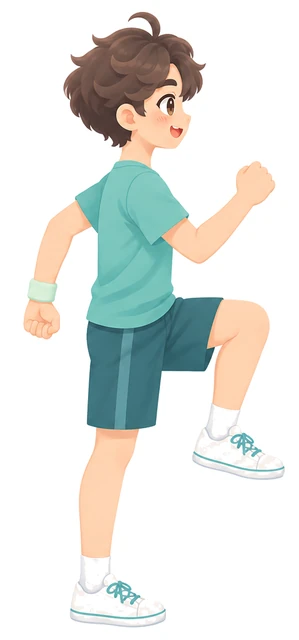
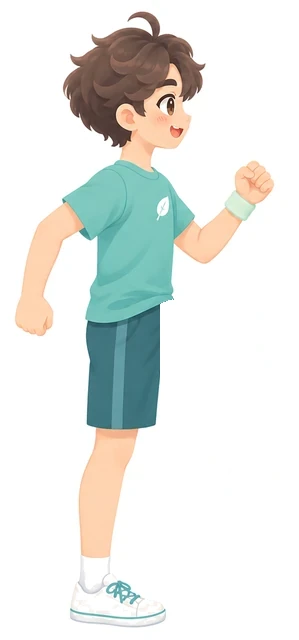
原地踏步改成兩格交替動畫：由抬膝圖合成「腳放下」格（女生／男生），取代幾乎看不出來的上下彈跳

diff --git a/index.html b/index.html
@@ -1145,7 +1145,7 @@ const SEATED=[
 const ALL_R=[...ROUTINES,...EXTRA,...SEATED];
 /* 已有插畫的動作：img/frames/動作-a.webp、-b.webp。新增時在這裡加一行 */
 // smarch／stoe 起始格借用 skneehug-a、spunch 起始格由 smarch 上半身合成（原檔在 備份/_backup_20261121_起身小花園坐姿圖）；scircle 兩格太像，暫用 anim lift
-const IMGS={ankle:{},legext:{},sitstand:{},hamstring:{},march:{bob:true},heel:{},side:{},wallpush:{},calf:{},quad:{},chin:{},shoulder:{},neck:{},reach:{},palm:{},bridge:{},slr:{},
+const IMGS={ankle:{},legext:{},sitstand:{},hamstring:{},march:{},heel:{},side:{},wallpush:{},calf:{},quad:{},chin:{},shoulder:{},neck:{},reach:{},palm:{},bridge:{},slr:{},
   smarch:{},spunch:{},stoe:{},skneehug:{},scat:{},slean:{},stwist:{},sbend:{},scircle:{anim:'lift'},sopen:{},swrist:{}};
 const POT=i=>`img/frames/pot-${i}.webp?v=2`;
 /* 角色：女生插圖在 img/frames/，男生在 img/frames/boy/（清單 manifest.js 由 處理新圖.py 自動產生）。沒插圖的動作用小人動畫 */
@@ -1196,7 +1196,7 @@ function makeFig(id,host){
   const m=MOVES[id];
   const IM=curImgs()[id],dir=CH().dir;
   host.classList.toggle('photo',!!IM);
-  if(IM){host.innerHTML=`<div class="frames${IM.bob?' bob':''}${IM.anim?' bob an-'+IM.anim:''}" style="--per:${m.period*1.15}s"><img class="fa" src="${dir}${id}-a.webp" alt="${m.name}：起始動作"><img class="fb" src="${dir}${id}-b.webp" alt="${m.name}：結束動作"></div>`;return {paused:false}}const A={...BASE[m.base],...m.a};const B={...A,...m.b};const flat=m.base==='front'||m.base==='seatF';
+  if(IM){host.innerHTML=`<div class="frames${IM.bob?' bob':''}${IM.anim?' bob an-'+IM.anim:''}" style="--per:${m.period*1.15}s"><img class="fa" src="${dir}${id}-a.webp?v=1124" alt="${m.name}：起始動作"><img class="fb" src="${dir}${id}-b.webp?v=1124" alt="${m.name}：結束動作"></div>`;return {paused:false}}const A={...BASE[m.base],...m.a};const B={...A,...m.b};const flat=m.base==='front'||m.base==='seatF';
   const svg=document.createElementNS(NS,'svg');svg.setAttribute('viewBox','0 0 200 200');svg.setAttribute('role','img');svg.setAttribute('aria-label',m.name+'示範');
   svg.innerHTML='<line class="floor" x1="6" y1="187" x2="194" y2="187"/>'+m.props.map(p=>PROPS[p]).join('');
   const P={};
